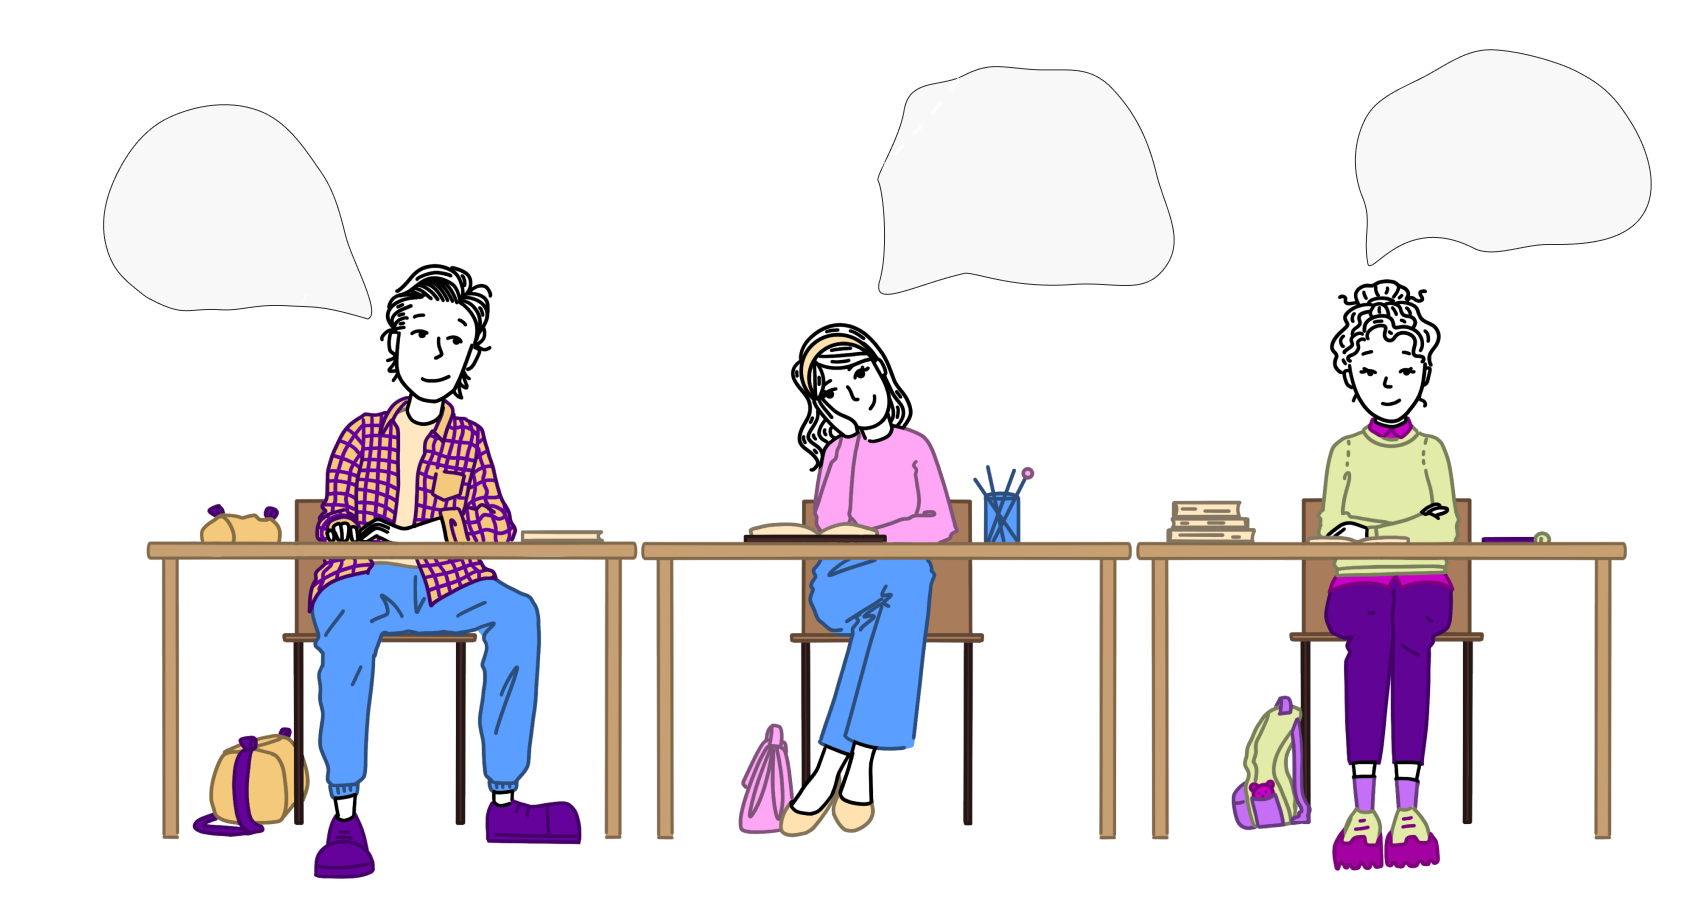
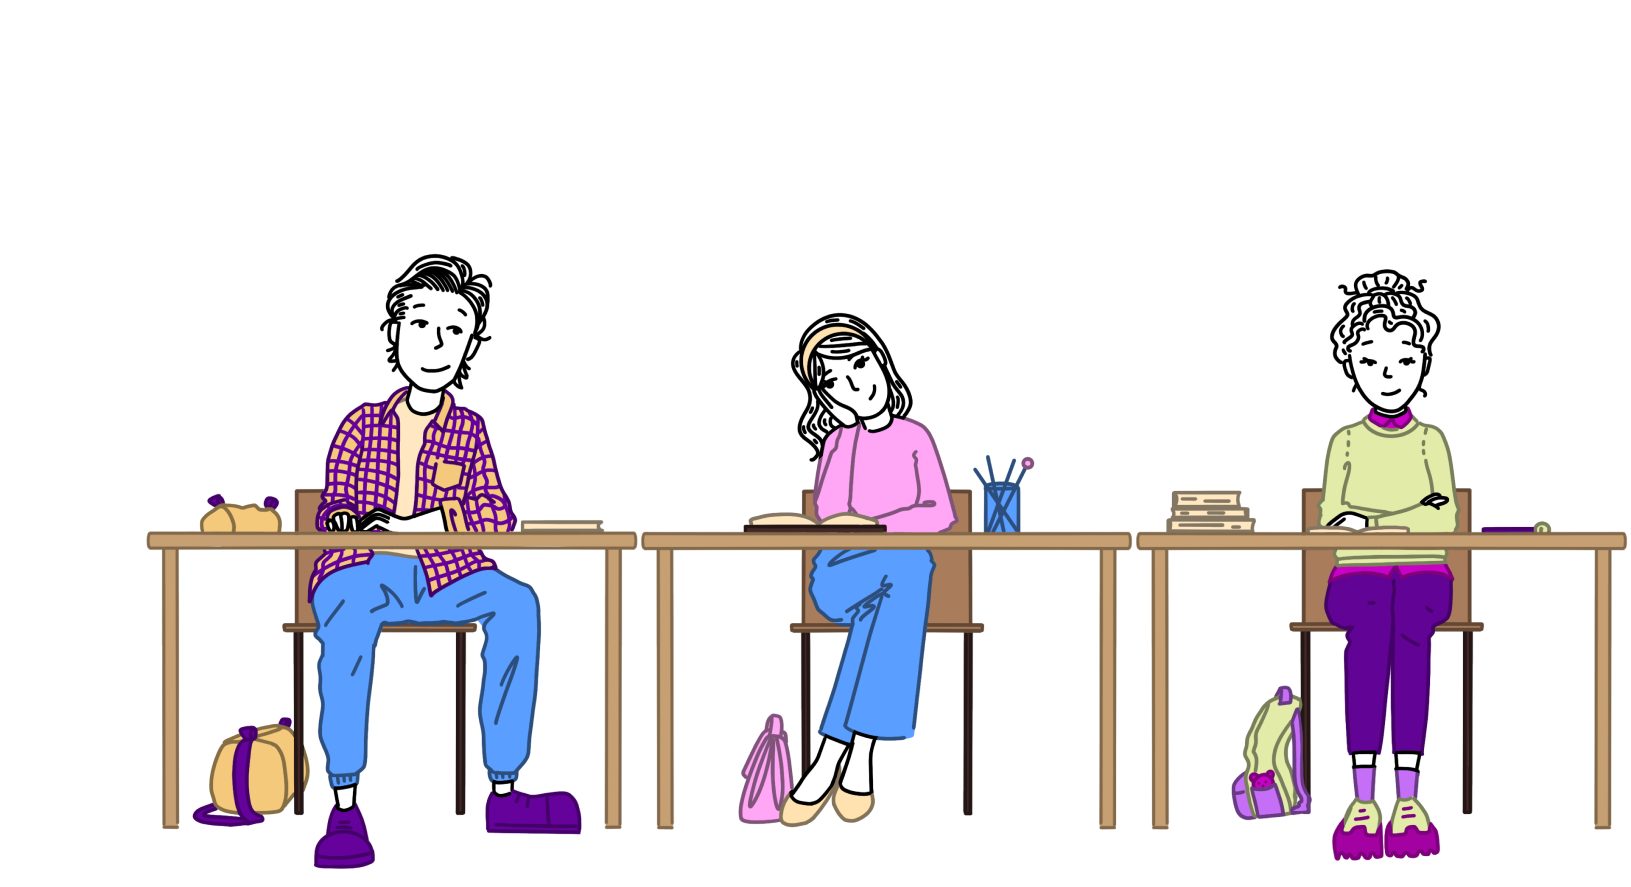
init

Changed region(s): [[0.092, 0.274, 1.0, 0.9741], [0.5212, 0.3044, 0.5518, 0.3348]]

diff --git a/components/Courses/questions/questions.scss b/components/Courses/questions/questions.scss
@@ -82,30 +82,52 @@
 
     &_left {
       position: absolute;
-      left: 10%;
+      left: 5%;
       top: 21%;
-      max-width: 150px;
+      max-width: 250px;
+      min-height: 150px;
+      max-height: 150px;
+      background-color: white;
+      border-radius: 50%;
+      padding: 20px;
+      display: flex;
+      justify-content: center;
+      align-items: center;
+      border: 1px solid black;
 
       @media (max-width: 1549px) {
-        left: 9%;
+        left: 1%;
         top: 21%;
       }
       @media (max-width: 1199px) {
-        left: 9%;
+        left: 3%;
         top: 20%;
-        max-width: 118px;
+        max-width: 160px;
       }
       @media (max-width: 990px) {
         top: 21%;
         left: 11%;
-        max-width: 160px;
+        max-width: 170px;
       }
       @media (max-width: 767px) {
         left: 9%;
       }
       @media (max-width: 510px) {
         top: 20%;
-        max-width: 118px;
+        left: 2%;
+        max-width: 160px;
+      }
+      &:before {
+        display: block;
+        width: 20px;
+        height: 20px;
+        background-color: #fff;
+        content: '';
+        position: absolute;
+        bottom: 0;
+        right: 0;
+        border: 1px solid black;
+        border-radius: 50%;
       }
     }
 
@@ -114,13 +136,24 @@
       right: 33.5%;
       top: 17%;
       z-index: 1;
+      max-width: 200px;
+      min-height: 150px;
+      max-height: 150px;
+      background-color: white;
+      border-radius: 50%;
+      padding: 20px;
+      display: flex;
+      justify-content: center;
+      align-items: center;
+      border: 1px solid black;
 
       @media (max-width: 1549px) {
         right: 31.5%;
+        top: 9%;
       }
 
       @media (max-width: 1199px) {
-        top: 16%;
+        top: 5%;
         right: 32.5%;
       }
 
@@ -130,32 +163,82 @@
       }
 
       @media (max-width: 767px) {
-        top: 16%;
+        top: 13%;
         right: 33.5%;
+      }
+
+      @media (max-width: 530px) {
+        top: 5%;
+      }
+
+      &:before {
+        display: block;
+        width: 20px;
+        height: 20px;
+        background-color: #fff;
+        content: '';
+        position: absolute;
+        bottom: 0;
+        left: 0;
+        border: 1px solid black;
+        border-radius: 50%;
       }
     }
 
     &_right {
       position: absolute;
       right: 4%;
-      top: 13%;
+      top: 10%;
+      width: 100%;
+      max-width: 180px;
+      min-height: 150px;
+      max-height: 150px;
+      background-color: white;
+      border-radius: 50%;
+      padding: 20px;
+      display: flex;
+      justify-content: center;
+      align-items: center;
+      border: 1px solid black;
 
       @media (max-width: 1549px) {
         right: 3%;
       }
 
       @media (max-width: 1549px) {
-        top: 13.5%;
+        top: 1.5%;
         right: 2.5%;
       }
 
       @media (max-width: 990px) {
+        top: 10.5%;
         right: 5.5%;
       }
 
       @media (max-width: 767px) {
-        top: 12.5%;
+        top: 1.5%;
         right: 4.5%;
+      }
+
+      @media (max-width: 660px) {
+        top: 3.5%;
+      }
+
+      @media (max-width: 530px) {
+        top: 1.5%;
+      }
+
+      &:before {
+        display: block;
+        width: 20px;
+        height: 20px;
+        background-color: #fff;
+        content: '';
+        position: absolute;
+        bottom: -10px;
+        left: 10px;
+        border: 1px solid black;
+        border-radius: 50%;
       }
     }
   }
